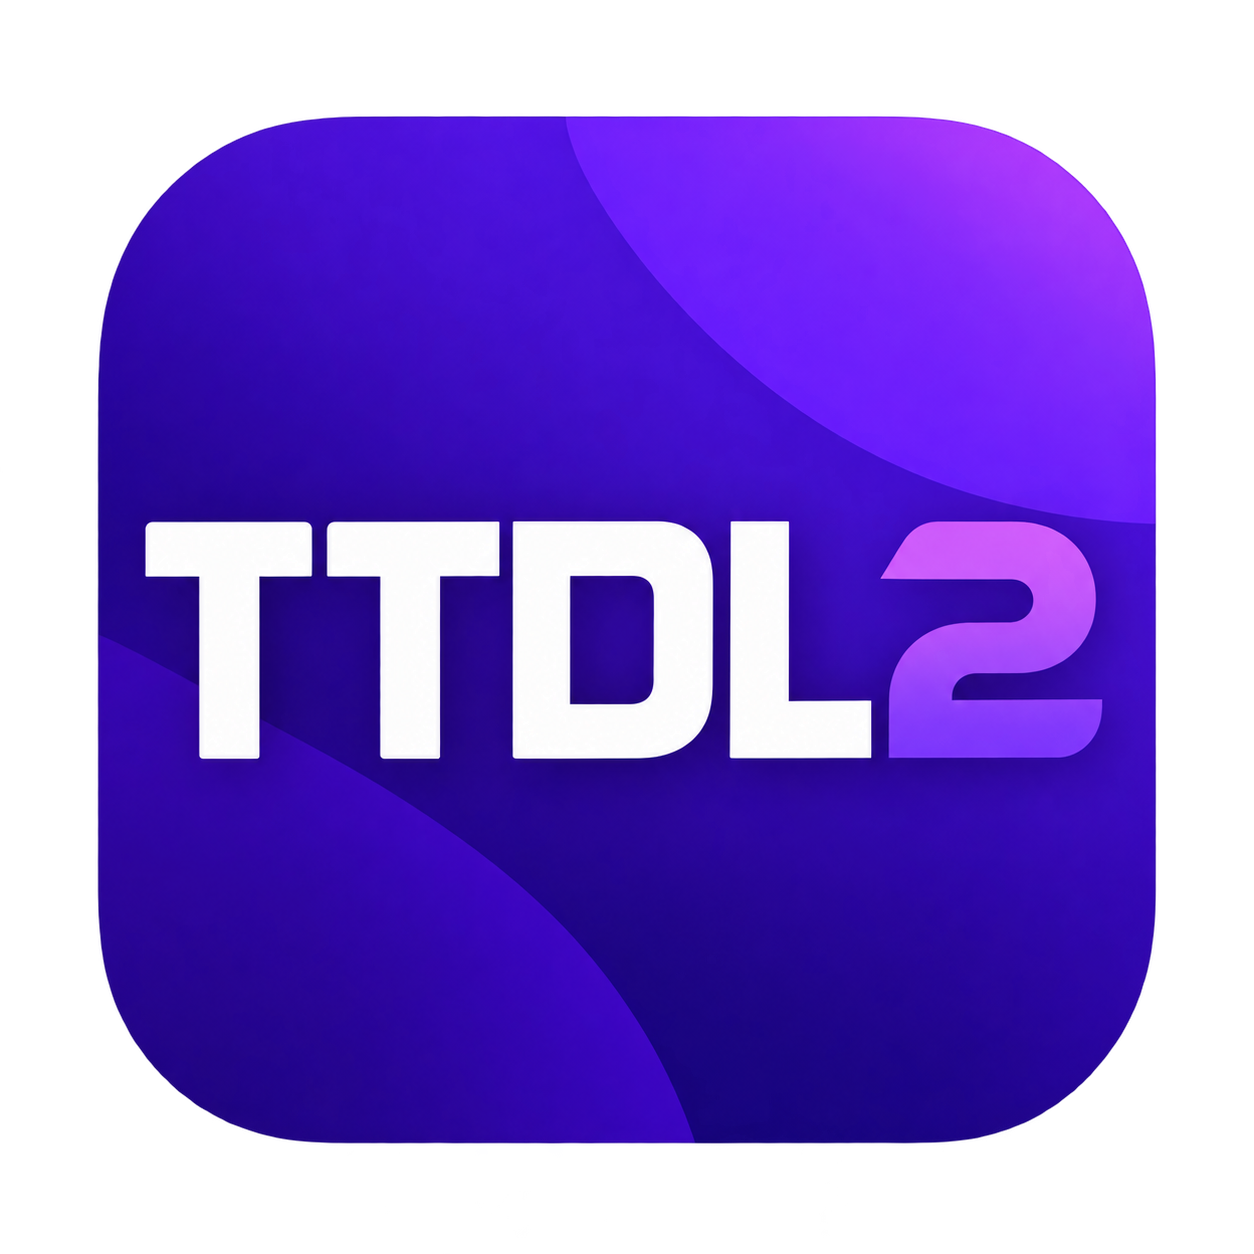
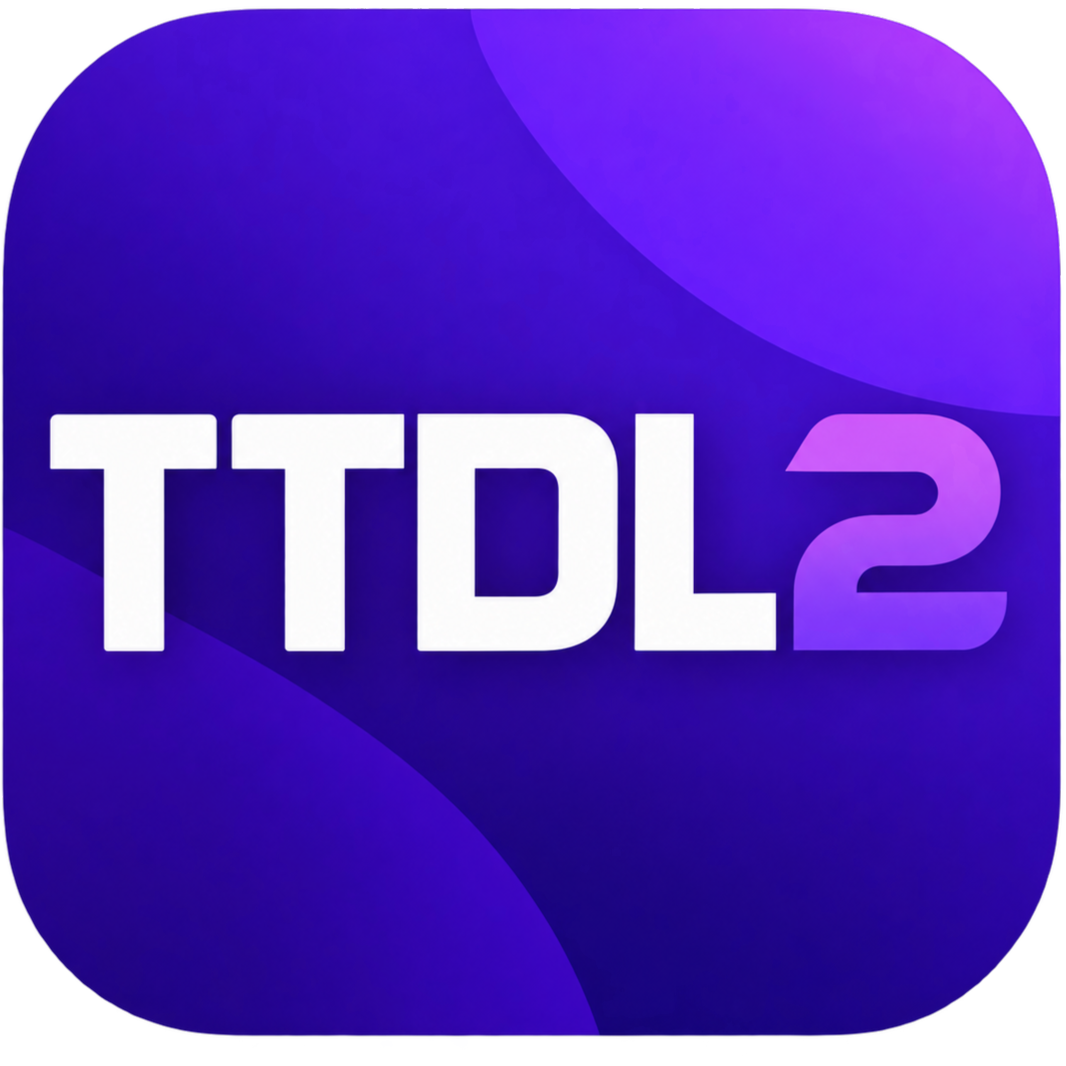
Add Windows installer and streamline downloader settings

diff --git a/tiktok_downloader/app.py b/tiktok_downloader/app.py
@@ -6,11 +6,11 @@ import subprocess
 import sys
 
 from PySide6.QtCore import QByteArray, QProcess, QTimer, QUrl
-from PySide6.QtGui import QDesktopServices
+from PySide6.QtGui import QDesktopServices, QIcon
 from PySide6.QtWidgets import (
     QApplication, QCheckBox, QComboBox, QDialog, QDialogButtonBox,
     QFileDialog, QFormLayout, QHBoxLayout, QLabel, QLineEdit, QMainWindow,
-    QMessageBox, QPlainTextEdit, QProgressBar, QPushButton, QVBoxLayout, QWidget,
+    QPlainTextEdit, QProgressBar, QPushButton, QVBoxLayout, QWidget,
 )
 
 from .core import Job, filename_component, profile_name, read_links
@@ -43,13 +43,6 @@ class SettingsDialog(QDialog):
         self.executable = QLineEdit(settings.executable)
         self.executable.setPlaceholderText("Optional custom browser executable, e.g. Brave")
         layout.addRow("&Executable", self.executable)
-        self.checks = {}
-        for key, title in [("images_only", "Images only"), ("json_logs", "Save API JSON"),
-                           ("download_logs", "Save download log"), ("notifications", "Alert on completion")]:
-            check = QCheckBox(title)
-            check.setChecked(getattr(settings, key))
-            self.checks[key] = check
-            layout.addRow(check)
         buttons = QDialogButtonBox(QDialogButtonBox.StandardButton.Save | QDialogButtonBox.StandardButton.Cancel)
         buttons.accepted.connect(self.accept)
         buttons.rejected.connect(self.reject)
@@ -58,7 +51,6 @@ class SettingsDialog(QDialog):
     def settings(self):
         return AppConfig.model_validate(self.values.model_dump() | {
             "browser": self.browser.currentText(), "executable": self.executable.text(),
-            **{name: check.isChecked() for name, check in self.checks.items()},
         })
 
 
@@ -88,6 +80,7 @@ class MainWindow(QMainWindow):
         self.status_timer.setInterval(1000)
         self.status_timer.timeout.connect(self.show_work_status)
         self.setWindowTitle(f"ttdl2 - v{__version__}")
+        self.setWindowIcon(QIcon(str(Path(__file__).resolve().parent.parent / "assets" / "purple" / "ttdl2-icon-purple.ico")))
         self.resize(840, 660)
         self.setMinimumSize(500, 480)
         if self.settings.window_geometry:
@@ -129,6 +122,20 @@ class MainWindow(QMainWindow):
         destination_label = QLabel("&Save to")
         destination_label.setBuddy(self.destination)
         form.addRow(destination_label, destination_row)
+        options = QHBoxLayout()
+        self.checks = {}
+        for key, title in [("images_only", "Images only"), ("json_logs", "Save API JSON"),
+                           ("download_logs", "Save download log"), ("notifications", "Alert on completion")]:
+            check = QCheckBox(title)
+            check.setChecked(getattr(self.settings, key))
+            check.toggled.connect(lambda checked, name=key: self.update_option(name, checked))
+            self.checks[key] = check
+            options.addWidget(check)
+        options.addStretch()
+        self.save_settings_button = QPushButton("Save se&ttings")
+        self.save_settings_button.clicked.connect(self.save_config)
+        options.addWidget(self.save_settings_button)
+        form.addRow(options)
         layout.addWidget(self.inputs)
         actions = QHBoxLayout()
         self.download = QPushButton("Setup &Browser")
@@ -184,7 +191,6 @@ class MainWindow(QMainWindow):
         self.reset_action = menu.addAction("Restore &Defaults", self.reset_defaults)
         menu.addSeparator()
         menu.addAction("E&xit", self.close)
-        self.menuBar().addMenu("&Help").addAction("&About", self.about)
 
     def choose_folder(self):
         path = QFileDialog.getExistingDirectory(self, "Download folder", self.destination.text())
@@ -202,6 +208,11 @@ class MainWindow(QMainWindow):
         return AppState(source=self.source.text(), folder=self.destination.text(),
                         window_geometry=bytes(self.saveGeometry().toHex()).decode("ascii"))
 
+    def update_option(self, name, checked):
+        setattr(self.settings, name, checked)
+        if self.scanned_job is not None and name != "notifications":
+            setattr(self.scanned_job, name, checked)
+
     def save_config(self):
         self.preferences.save_config(**self.settings.model_dump(exclude=set(AppState.model_fields)))
         self.preferences.save_state(self.current_state())
@@ -211,6 +222,8 @@ class MainWindow(QMainWindow):
     def apply_settings(self):
         self.source.setText(self.settings.source)
         self.destination.setText(self.settings.folder)
+        for name, check in self.checks.items():
+            check.setChecked(getattr(self.settings, name))
         if self.settings.window_geometry:
             self.restoreGeometry(QByteArray.fromHex(self.settings.window_geometry.encode("ascii")))
         else:
@@ -223,9 +236,6 @@ class MainWindow(QMainWindow):
         self.settings = self.preferences.values
         self.apply_settings()
         self.statusBar().showMessage("Defaults restored. Click Save config to keep these values.")
-
-    def about(self):
-        QMessageBox.about(self, "About TikTok Downloader 2", f"TikTok Downloader {__version__}\nPython · PySide6 · Playwright\n\nBased on TikTok Downloader\n© 2024 Jettcodey · MIT License")
 
     def start_download(self):
         settings = self.settings.model_dump(exclude={"source", "folder", "window_geometry", "notifications"})

diff --git a/tests/test_downloads.py b/tests/test_downloads.py
@@ -86,7 +86,10 @@ def test_original_hd_provider_failure_is_not_replaced(path, error, job_factory, 
 def test_parsing(tmp_path):
     assert post_parts("https://www.tiktok.com/@a.b/photo/123/?x=1") == ("a.b", "photo", "123")
     assert profile_name("https://www.tiktok.com/@a.b/?lang=en") == "a.b"
-    assert filename_component("../../name") == "%2E%2E%2F%2E%2E%2Fname"
+    assert post_parts("https://www.tiktok.com/@ayvah%2Enizzari/photo/123") == ("ayvah.nizzari", "photo", "123")
+    assert profile_name("https://www.tiktok.com/@ayvah%2Enizzari/") == "ayvah.nizzari"
+    assert filename_component("ayvah.nizzari") == "ayvah.nizzari"
+    assert filename_component("../../name") == "..%2F..%2Fname"
     with pytest.raises(FileNotFoundError):
         read_links(tmp_path / "missing.txt")
 
@@ -111,7 +114,7 @@ def test_downloads_reuse_connection_without_per_file_wait(tmp_path):
             if self.path.startswith("/api/"):
                 metadata_times.append(monotonic())
                 origin = f"http://127.0.0.1:{self.server.server_port}"
-                body = json.dumps({"data": {"author": {"unique_id": "alice"},
+                body = json.dumps({"data": {"author": {"unique_id": "ayvah.nizzari"},
                     "hdplay": origin + "/video", "images": [origin + "/1", origin + "/2"]}}).encode()
             else:
                 body = payload
@@ -124,11 +127,12 @@ def test_downloads_reuse_connection_without_per_file_wait(tmp_path):
         thread = threading.Thread(target=http.serve_forever, daemon=True)
         thread.start()
         origin = f"http://127.0.0.1:{http.server_port}"
-        job = Job(source="@alice", folder=str(tmp_path), hd_api=origin + "/api/")
+        job = Job(source="@ayvah.nizzari", folder=str(tmp_path), hd_api=origin + "/api/")
         events = []
         started = monotonic()
         Downloader(job, events.append, Control()).run([
-            origin + "/@alice/video/123", origin + "/@alice/photo/456"])
+            origin + "/@ayvah%2Enizzari/video/123", origin + "/@ayvah%2Enizzari/photo/456"])
+        Downloader(job, events.append, Control()).run([origin + "/@ayvah%2Enizzari/video/123"])
         elapsed = monotonic() - started
         http.shutdown()
         thread.join()
@@ -137,7 +141,7 @@ def test_downloads_reuse_connection_without_per_file_wait(tmp_path):
     assert len(set(connections)) == 1
     assert metadata_times[1] - metadata_times[0] >= 1.0
     assert elapsed < 3  # The old 1.9-second delay alone took 5.7 seconds.
-    assert (tmp_path / "alice" / "video" / "123_HD.mp4").read_bytes() == payload
+    assert (tmp_path / "ayvah.nizzari" / "video" / "123_HD.mp4").read_bytes() == payload
     for i in (1, 2):
-        assert (tmp_path / "alice" / "photo" / f"456_{i}.jpg").read_bytes() == payload
+        assert (tmp_path / "ayvah.nizzari" / "photo" / f"456_{i}.jpg").read_bytes() == payload
     assert sum(event["bytes"] for event in events if event["type"] == "transfer") == 3 * len(payload)

diff --git a/tests/test_settings.py b/tests/test_settings.py
@@ -2,7 +2,8 @@ import json
 
 import pytest
 from pydantic import ValidationError
-from PySide6.QtWidgets import QDialog
+from PySide6.QtCore import Qt
+from PySide6.QtWidgets import QCheckBox, QDialog
 
 from tiktok_downloader.app import MainWindow, SettingsDialog
 from tiktok_downloader.settings import AppConfig, AppState, Settings
@@ -36,12 +37,10 @@ def test_save_restart_reset_and_close(qtbot, tmp_path):
     window.resize(960, 720)
     window.settings.browser = "firefox"
     window.settings.executable = "custom-browser"
-    window.settings.images_only = True
-    window.settings.json_logs = True
-    window.settings.download_logs = True
-    window.settings.notifications = True
+    for check in window.checks.values():
+        check.setChecked(True)
     assert not window.preferences.state_path.exists()
-    window.save_config_action.trigger()
+    qtbot.mouseClick(window.save_settings_button, Qt.MouseButton.LeftButton)
     saved_config = window.preferences.config_path.read_bytes()
     saved_state = window.preferences.state_path.read_bytes()
     restored = MainWindow(tmp_path)
@@ -51,8 +50,10 @@ def test_save_restart_reset_and_close(qtbot, tmp_path):
     assert restored.destination.text() == str(tmp_path / "downloads")
     assert restored.size() == window.size()
     assert restored.settings == window.settings
+    assert all(check.isChecked() for check in restored.checks.values())
     restored.reset_action.trigger()
     assert restored.settings == AppConfig()
+    assert not any(check.isChecked() for check in restored.checks.values())
     assert restored.source.text() == ""
     assert restored.size().width() == 840
     restored.close()
@@ -72,10 +73,11 @@ def test_settings_dialog_save_cancel_and_paths(qtbot, tmp_path, monkeypatch):
     assert dialog.config_path.text() == str(tmp_path / "config.json")
     assert dialog.state_path.text() == str(tmp_path / "state.json")
     assert dialog.config_path.isReadOnly()
+    assert not dialog.findChildren(QCheckBox)
+    window.checks["notifications"].setChecked(True)
 
     def accept(dialog):
         dialog.browser.setCurrentText("msedge")
-        dialog.checks["notifications"].setChecked(True)
         return QDialog.DialogCode.Accepted
 
     monkeypatch.setattr(SettingsDialog, "exec", accept)

diff --git a/tiktok_downloader/core.py b/tiktok_downloader/core.py
@@ -5,7 +5,7 @@ from pathlib import Path
 import re
 import threading
 from time import monotonic
-from urllib.parse import quote, urlsplit
+from urllib.parse import quote, unquote, urlsplit
 import requests
 from playwright.sync_api import sync_playwright
 
@@ -47,14 +47,14 @@ class Control:
         return not self.stopped.is_set()
 
 def post_parts(url):
-    return re.fullmatch(r"/@([^/]+)/(video|photo)/(\d+)/?", urlsplit(url).path).groups()
+    return re.fullmatch(r"/@([^/]+)/(video|photo)/(\d+)/?", unquote(urlsplit(url).path)).groups()
 
 def filename_component(value):
-    return "".join(c if c.isascii() and (c.isalnum() or c in "_-")
+    return "".join(c if c.isascii() and (c.isalnum() or c in "_.-")
                    else f"%{ord(c):X}" for c in str(value))
 
 def profile_name(source):
-    return (urlsplit(source).path if "://" in source else source).strip("/@")
+    return unquote(urlsplit(source).path if "://" in source else source).strip("/@")
 
 def read_links(path):
     return [line.strip() for line in Path(path).read_text(encoding="utf-8-sig").splitlines() if line.strip()]
@@ -116,7 +116,7 @@ class Downloader:
                 for kind in ("video", "photo"):
                     for link in page.locator(f'a[href*="/{kind}/"]').evaluate_all("nodes => nodes.map(n => n.href)"):
                         parsed = urlsplit(link)
-                        if re.fullmatch(rf"/@{re.escape(username)}/{kind}/\d+/?", parsed.path):
+                        if re.fullmatch(rf"/@{re.escape(username)}/{kind}/\d+/?", unquote(parsed.path)):
                             canonical = f"{parsed.scheme}://{parsed.netloc}{parsed.path}"
                             if canonical not in indexed[kind]:
                                 indexed[kind].append(canonical)

diff --git a/tests/test_ui.py b/tests/test_ui.py
@@ -16,7 +16,7 @@ def window(qtbot, tmp_path):
 
 def test_hd_mass_only_screen(window, qtbot):
     assert not window.findChildren(QComboBox)
-    assert window.findChildren(QCheckBox) == [window.auto_download]
+    assert window.findChildren(QCheckBox) == [*window.checks.values(), window.auto_download]
     assert window.auto_download.isChecked()
     assert window.auto_download.geometry().bottom() < window.progress.geometry().top()
     assert window.auto_download.geometry().top() > window.download.geometry().bottom()

diff --git a/README.md b/README.md
@@ -1,10 +1,17 @@
-# TikTok Downloader 2
+<img src="assets/purple/ttdl2-text-purple.png" alt="TTDL 2" width="480" style="max-width: 100%; height: auto;">
 
-Python / Qt edition, scoped to **HD mass download by TikTok profile, without watermarks**.
+# TTDL 2
+
+TikTok Downloader 2 is a Python / Qt app for **HD mass download by TikTok profile, without watermarks**.
 
 ## Run
 
-Double-click `launch.cmd`. Setup from this directory:
+On Windows x64, run `TTDL2-<version>-windows-x64-Setup.exe`, then open **TTDL 2**
+from the Start menu. Setup installs for the current user, creates a private Python
+environment, and downloads dependencies and Chromium. Internet access is required
+during setup. It also offers an optional desktop shortcut.
+
+For a source checkout, double-click `launch.cmd` after setting up this directory:
 
 ```powershell
 uv sync --extra test
@@ -75,12 +82,12 @@ Live verification on 2026-09-18 opened the requested profile
 and saved HD video `7567041710119800086_HD.mp4` (752,298 bytes) through the download routine.
 This verifies a real download, not every post's continuing availability.
 
-Original application © 2024 Jettcodey; MIT notice retained in `LICENSE.txt`.
+Original application © 2024 Jettcodey; MIT notice retained in `LICENSE`.
 The C# source remains untouched.
 
 ## Build a release
 
-On Windows, install PowerShell 7.4+ and uv, then run `build.cmd` or:
+On Windows x64, install PowerShell 7.4+, uv, and Inno Setup 6, then run `build.cmd` or:
 
 ```powershell
 pwsh -NoProfile -File scripts/build.ps1
@@ -88,8 +95,24 @@ pwsh -NoProfile -File scripts/build.ps1
 
 The script installs locked dependencies and Chromium, runs the tests, builds the
 wheel and source archive, and tests the installed wheel in a separate environment
-outside the source checkout. Artifacts and `SHA256SUMS.txt` are written to
-`dist/<version>/`. These are Python packages; Python 3.12+ is required.
+outside the source checkout. It also builds a Windows setup installer.
+Artifacts and `SHA256SUMS.txt` are written to `dist/<version>/`.
+The installer downloads its runtime; the Python packages require Python 3.12+.
+
+To build just the setup installer, run `build-setup.cmd` or:
+
+```powershell
+pwsh -NoProfile -File scripts/build-setup.ps1
+```
+
+The setup build follows the YOLO Media Organizer and Spectra installer pattern.
+It packages the app source, icon, lockfile, and uv 0.11.11. During setup, uv installs
+Python 3.12.10 and the locked dependencies into a private environment under the
+installation directory, then Playwright downloads Chromium into its per-user cache.
+The purple ICO is used for the app, installer, shortcuts, and uninstall entry.
+Uninstall removes the private runtime while preserving user settings and downloads.
+Inno Setup defaults to `%LOCALAPPDATA%\Programs\Inno Setup 6\ISCC.exe`; pass
+`-IsccPath "C:\path\to\ISCC.exe"` to `build-setup.cmd` for another installation.
 
 To install a downloaded wheel into a virtual environment:
 
@@ -103,5 +126,5 @@ python -m venv .venv
 See [CHANGELOG.md](CHANGELOG.md) for release changes. Before a release, update the
 version in `pyproject.toml` and `tiktok_downloader/__init__.py`, run `uv lock`, and
 add a dated changelog entry. Run the build script, commit the release, push its
-annotated version tag, and publish the wheel, source archive, and checksum file
+annotated version tag, and publish the installer, wheel, source archive, and checksum file
 with `gh release create --verify-tag --notes-file` using the changelog entry.
